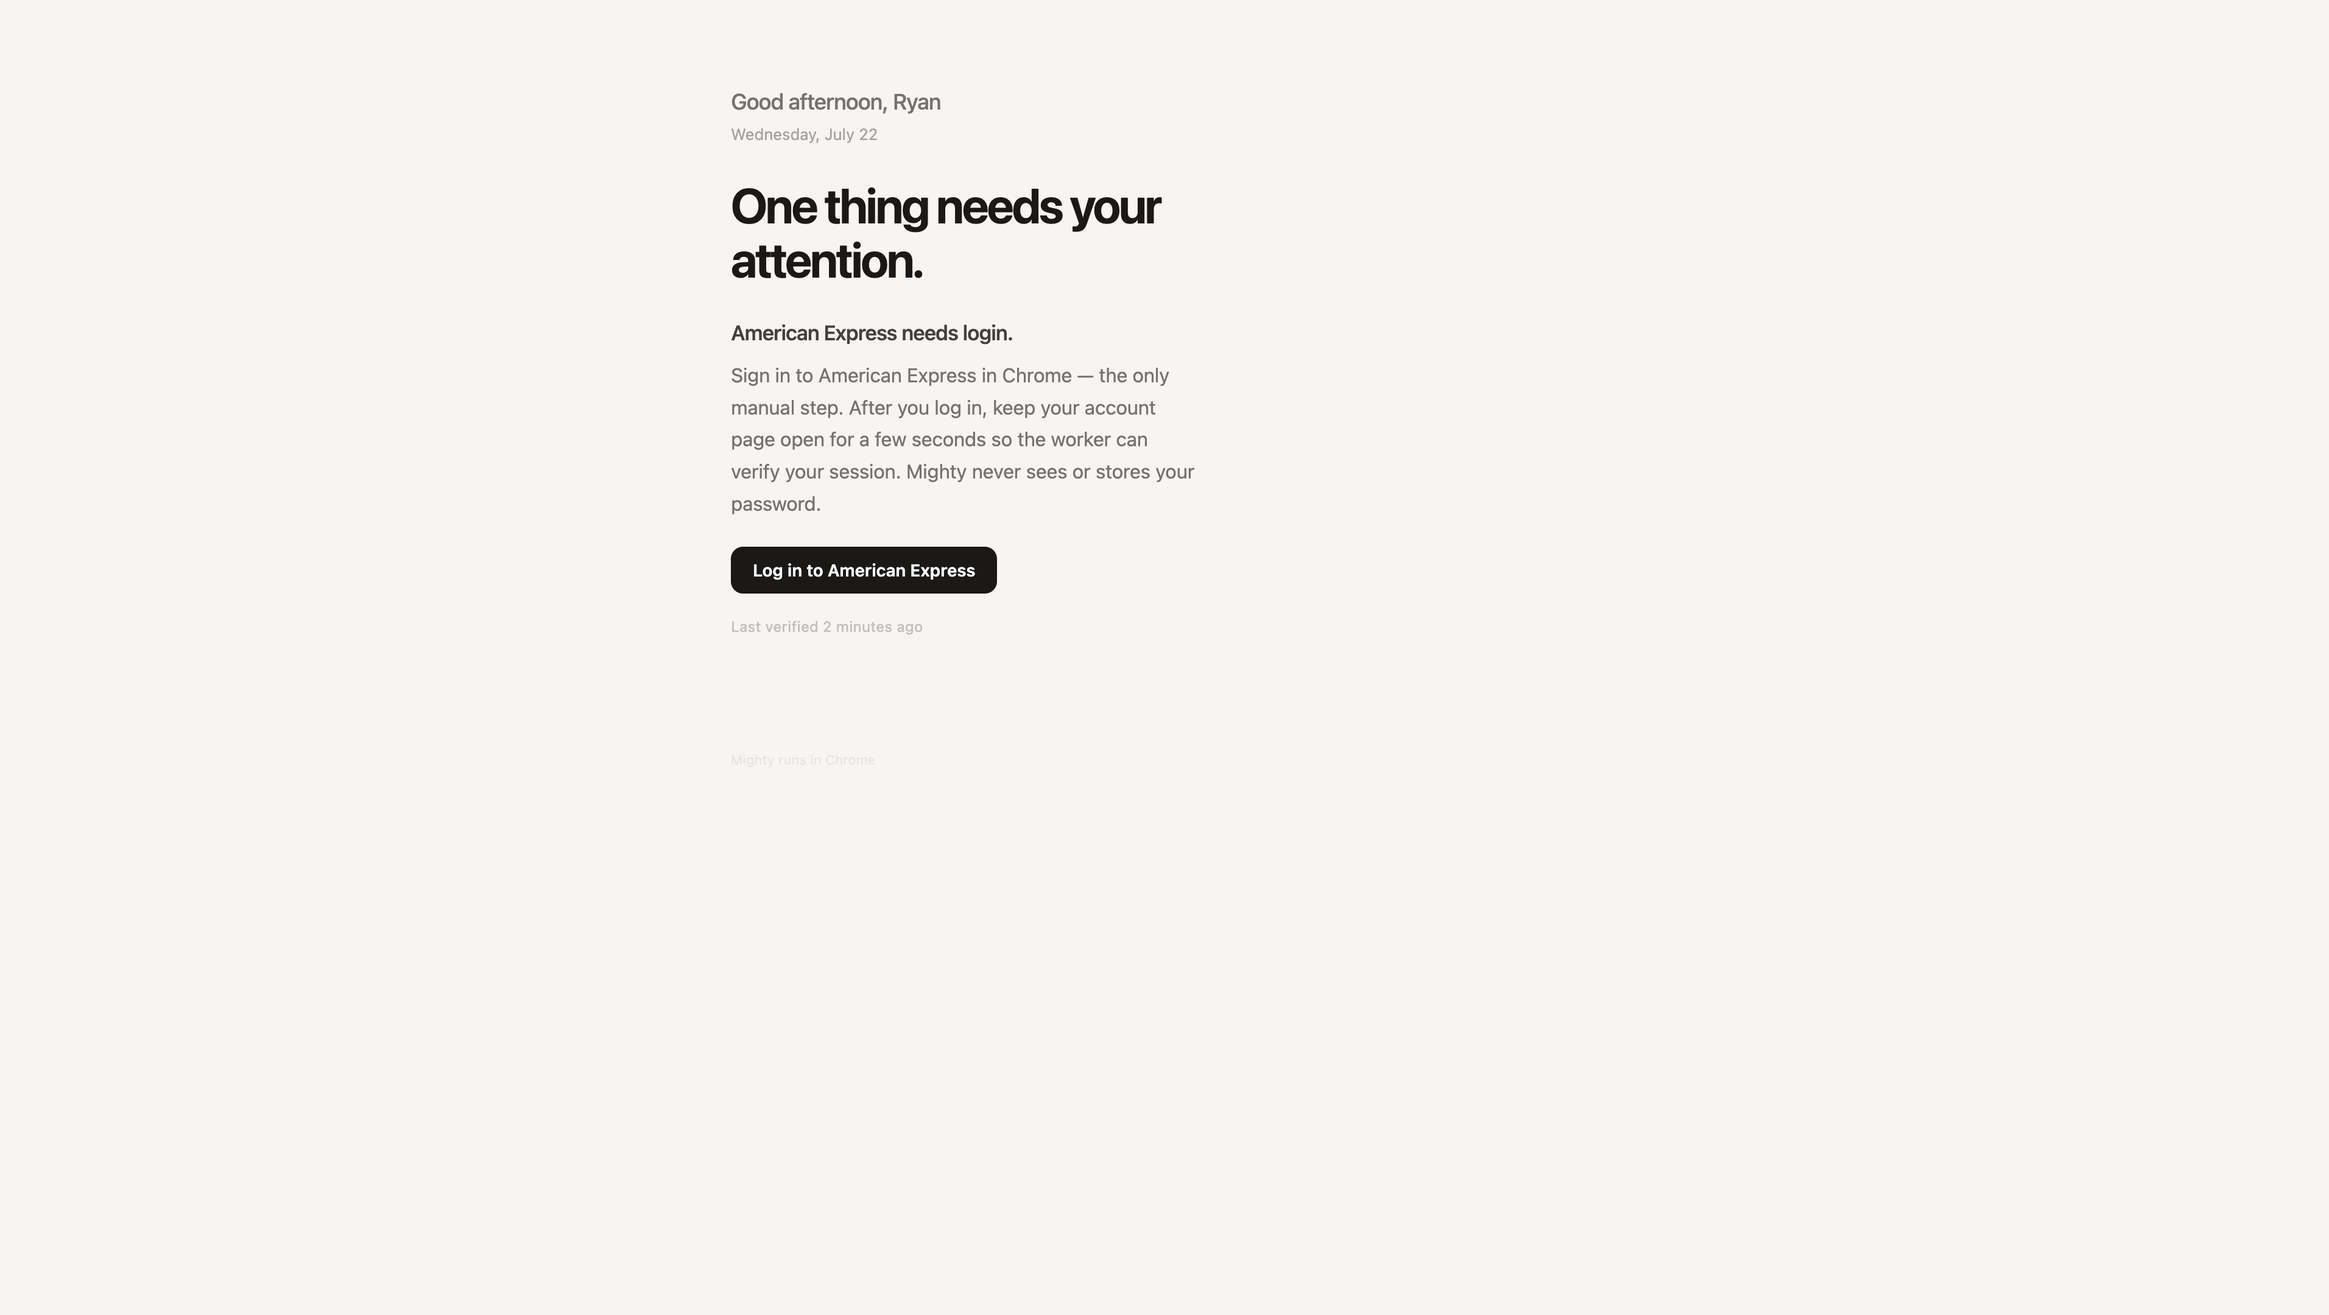
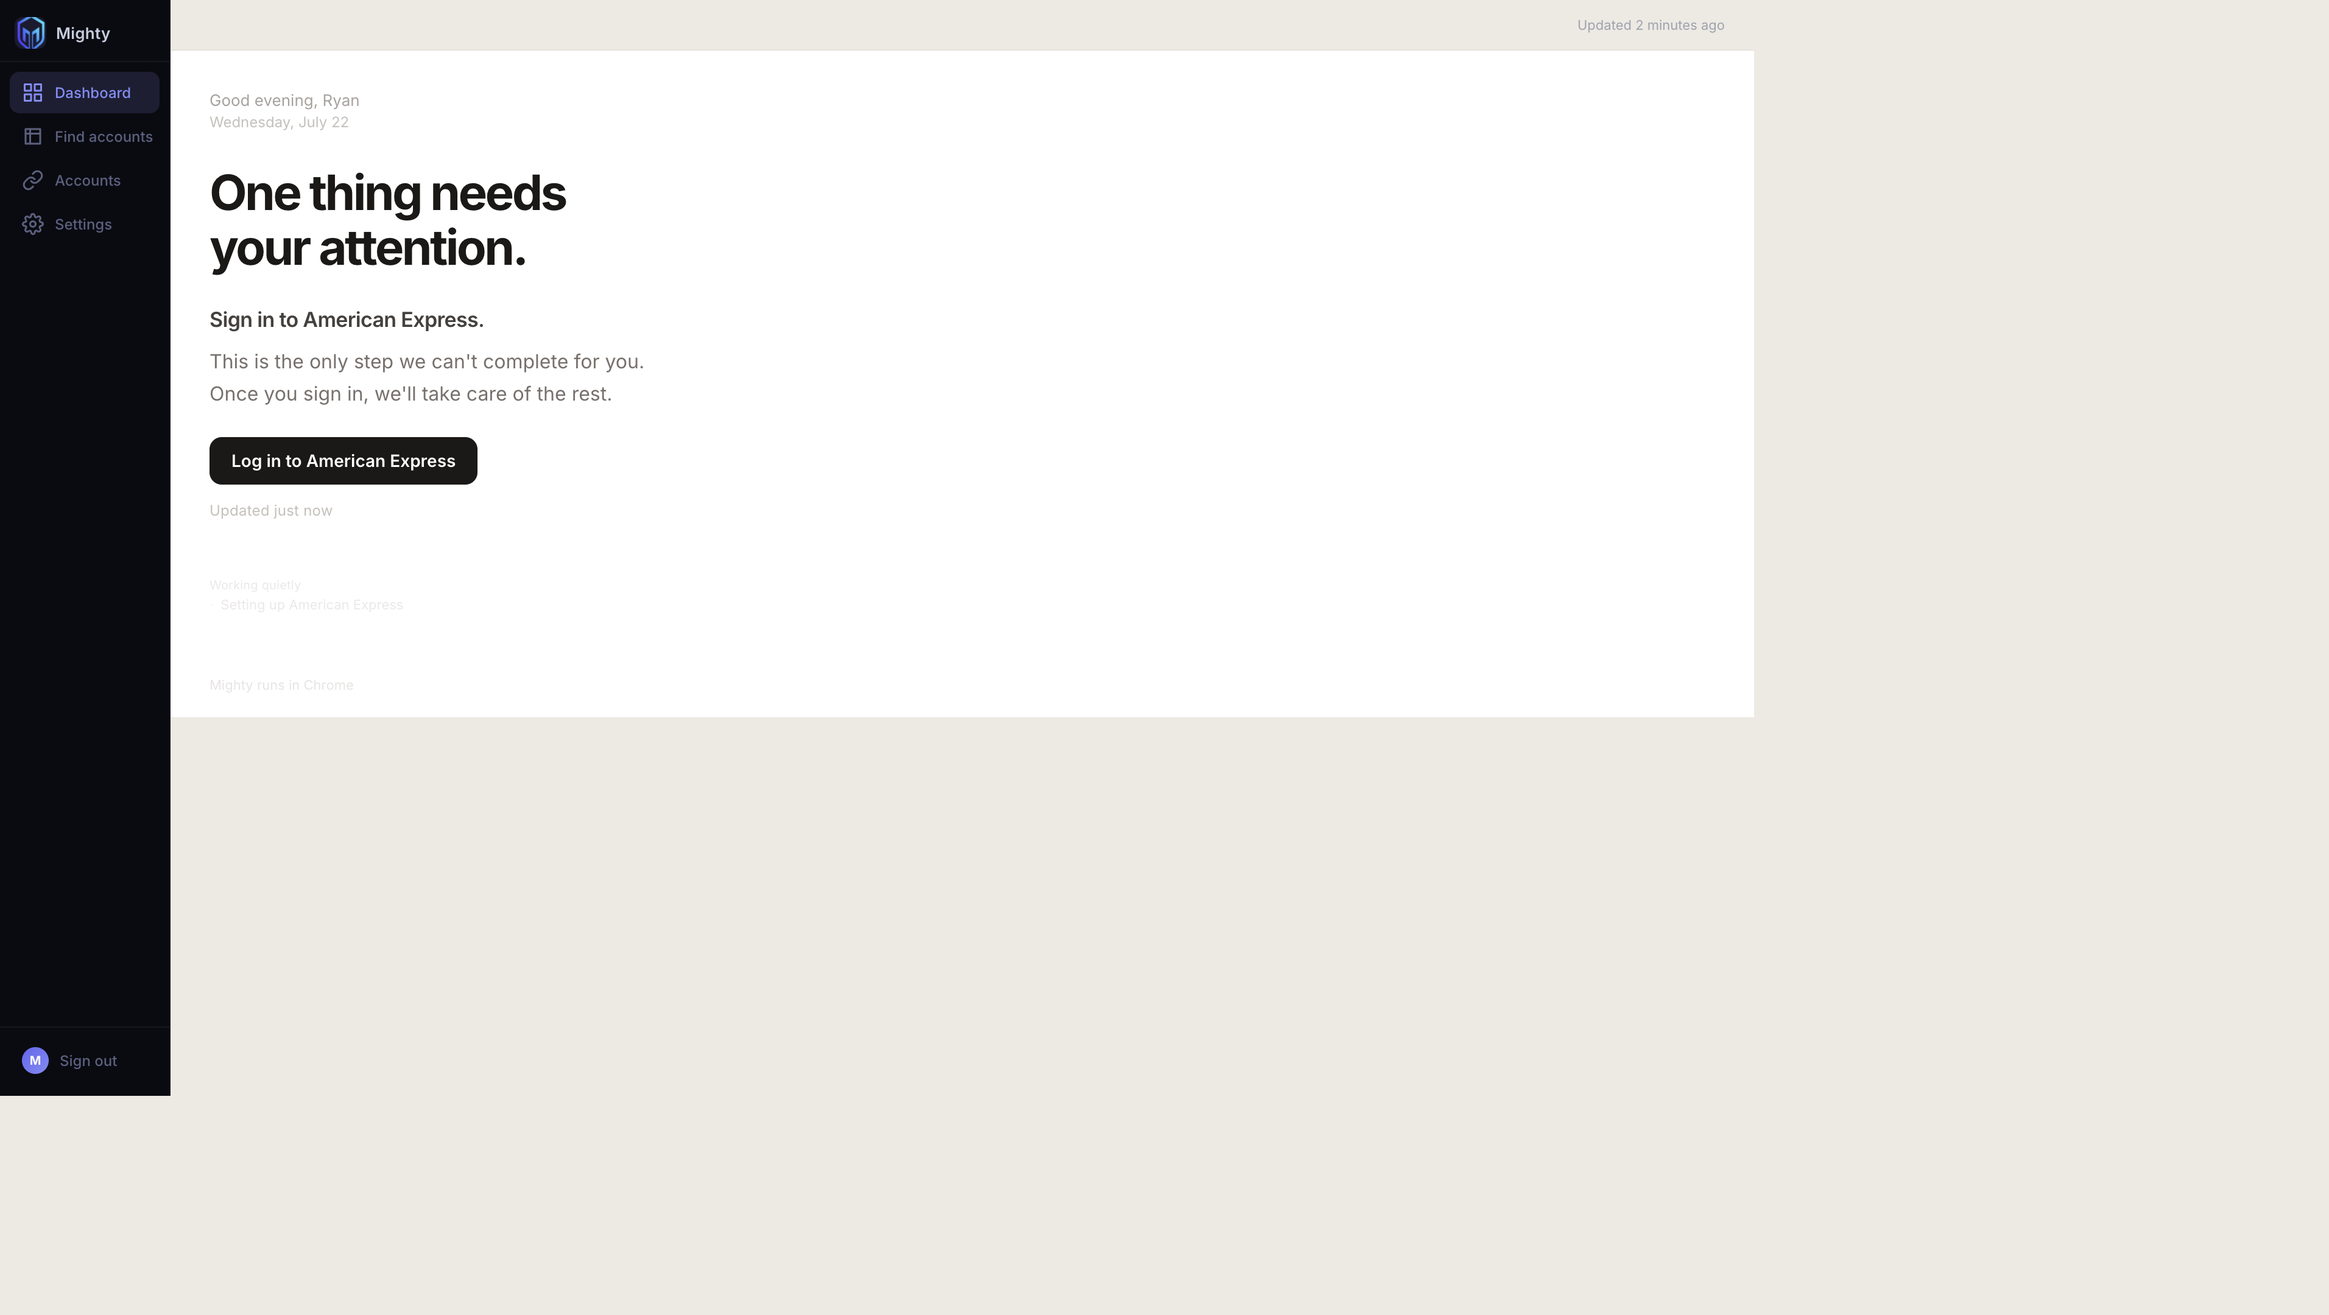
Home: Final V1B polish for greeting, freshness, and story copy
Quieten the greeting and ops whisper, keep subtle freshness under the story, and rewrite attention/opportunity copy for delegation and concrete benefit value.

Changed region(s): [[0.0, 0.0, 0.249, 0.8375], [0.3112, 0.2481, 0.4979, 0.4963], [0.3112, 0.062, 0.4979, 0.2171]]

diff --git a/app.py b/app.py
@@ -2137,8 +2137,12 @@ def _freshness_label(synced_at: str | None, sync_status: str = "ok") -> tuple:
         return ("No data", "#9ca3af", "—")
     try:
         import datetime as _dt
-        age_h = (_dt.datetime.utcnow() - _dt.datetime.fromisoformat(
-            synced_at.rstrip("Z"))).total_seconds() / 3600
+        parsed = _dt.datetime.fromisoformat(synced_at.rstrip("Z"))
+        if parsed.tzinfo is not None:
+            now = _dt.datetime.now(_dt.timezone.utc)
+            age_h = (now - parsed.astimezone(_dt.timezone.utc)).total_seconds() / 3600
+        else:
+            age_h = (_dt.datetime.utcnow() - parsed).total_seconds() / 3600
         if age_h < 1:
             return ("Just now", "#22c55e", "✓")
         elif age_h < 2:
@@ -6492,9 +6496,9 @@ DASHBOARD_HTML = """<!DOCTYPE html>
 /* Home V1B — status-first executive briefing */
 .home-briefing .home-stack{display:flex;flex-direction:column;gap:0;max-width:480px}
 .home-briefing .home-header{margin:0 0 8px}
-.home-briefing .home-greeting{margin:0;font-size:18px;font-weight:500;letter-spacing:-0.02em;line-height:1.3;color:#78716c}
-.home-briefing .home-meta{margin-top:4px}
-.home-briefing .home-meta .dash-brief-today-date{font-size:13px;color:#a8a29e}
+.home-briefing .home-greeting{margin:0;font-size:13px;font-weight:400;letter-spacing:0;line-height:1.35;color:#a8a29e}
+.home-briefing .home-meta{margin-top:2px}
+.home-briefing .home-meta .dash-brief-today-date{font-size:12px;color:#c4c0bb}
 .home-briefing .home-answer{margin:28px 0 0;font-size:40px;font-weight:650;color:#1c1917;letter-spacing:-0.045em;line-height:1.12;max-width:14ch}
 .home-briefing .home-primary{margin:18px 0 48px}
 .home-card{display:block}
@@ -6509,7 +6513,7 @@ DASHBOARD_HTML = """<!DOCTYPE html>
 .home-card-cta--disabled{display:inline-flex;align-items:center;justify-content:center;padding:11px 18px;font-size:14px;font-weight:600;color:#a8a29e;background:#f5f5f4;border-radius:10px}
 .home-card-secondary-link,.home-card-cta--text{font-size:13px;font-weight:500;color:#a8a29e;text-decoration:none}
 .home-card-secondary-link:hover,.home-card-cta--text:hover{color:#78716c;text-decoration:none}
-.home-freshness{margin:20px 0 0;font-size:12px;font-weight:450;color:#c4c0bb;letter-spacing:0.01em}
+.home-freshness{margin:14px 0 0;font-size:12px;font-weight:400;color:#c4c0bb;letter-spacing:0.01em}
 .home-section-label{margin:0 0 12px;font-size:11px;font-weight:600;color:#d6d3d1;text-transform:uppercase;letter-spacing:0.07em}
 .home-wins{margin:0 0 40px;padding-top:28px;border-top:0.5px solid rgba(0,0,0,0.05)}
 .home-wins-list{list-style:none;margin:0;padding:0;display:flex;flex-direction:column;gap:10px}
@@ -6517,18 +6521,18 @@ DASHBOARD_HTML = """<!DOCTYPE html>
 .home-win::before{content:"·";margin-right:10px;color:#d6d3d1}
 .home-win-link{color:inherit;text-decoration:none}
 .home-win-link:hover{color:#78716c;text-decoration:underline}
-.home-ops{margin:0 0 4px;opacity:0.72}
-.home-ops-label{margin:0 0 6px;font-size:11px;font-weight:500;color:#d6d3d1;letter-spacing:0.02em;text-transform:none}
-.home-ops-list{list-style:none;margin:0;padding:0;display:flex;flex-direction:column;gap:4px}
-.home-ops-item{font-size:12px;color:#d6d3d1;line-height:1.4}
-.home-ops-item::before{content:"•";margin-right:8px;color:#e7e5e4}
+.home-ops{margin:0 0 4px;opacity:0.5}
+.home-ops-label{margin:0 0 3px;font-size:10px;font-weight:400;color:#d6d3d1;letter-spacing:0.01em;text-transform:none}
+.home-ops-list{list-style:none;margin:0;padding:0;display:flex;flex-direction:column;gap:2px}
+.home-ops-item{font-size:11px;color:#d6d3d1;line-height:1.35}
+.home-ops-item::before{content:"·";margin-right:6px;color:#e7e5e4}
 .home-ops-note{color:#d6d3d1;text-decoration:none}
 a.home-ops-note:hover{color:#a8a29e;text-decoration:underline}
 .home-footer{margin-top:48px;padding-top:0;border-top:none;font-size:11px;color:#e7e5e4}
 .home-truth-debug{margin-top:36px;padding-top:16px;border-top:0.5px solid rgba(0,0,0,0.06)}
 .home-truth-debug summary{cursor:pointer;font-size:13px;font-weight:600;color:#a8a29e}
 @media(max-width:640px){
-.home-briefing .home-greeting{font-size:16px}
+.home-briefing .home-greeting{font-size:12px}
 .home-briefing .home-answer{font-size:32px;margin-top:22px}
 .home-card-title{font-size:16px}
 }

diff --git a/mighty/user_copy.py b/mighty/user_copy.py
@@ -586,11 +586,12 @@ HOME_PRIORITY_RECOMMENDATION = "1 thing worth your attention."
 # V1B briefing — answer "Am I good?"
 HOME_BRIEFING_ANSWER_GOOD = "You're good."
 HOME_BRIEFING_ANSWER_ATTENTION = "One thing needs your attention."
-HOME_BRIEFING_ANSWER_OPPORTUNITY = "Something is worth your attention."
+HOME_BRIEFING_ANSWER_OPPORTUNITY = "There's value waiting for you."
 HOME_BRIEFING_ALL_CLEAR_TITLE = "You're good."
 HOME_RECENT_WINS_LABEL = "Recent wins"
 HOME_OPS_LABEL = "Working quietly"
 HOME_FRESHNESS_PREFIX = "Last verified "
+HOME_FRESHNESS_UPDATED_PREFIX = "Updated "
 HOME_ACCOUNTS_SOFT_LINK = "Accounts"
 
 HOME_FOOTER_WORKER = "Mighty runs in Chrome"
@@ -641,15 +642,15 @@ def home_waiting_headline(count: int, provider_name: str | None = None) -> str:
 
 def home_login_headline(provider_name: str, *, plural: bool = False, count: int = 1) -> str:
     if plural or count > 1:
-        return f"{count} accounts need login."
-    return f"{provider_name} needs login."
+        return f"{count} accounts need a sign-in."
+    return f"Sign in to {provider_name}."
 
 
 def home_login_body(provider_name: str) -> str:
+    del provider_name  # Provider is named in the title / CTA.
     return (
-        f"Sign in to {provider_name} in Chrome — the only manual step. "
-        "After you log in, keep your account page open for a few seconds so the worker "
-        "can verify your session. Mighty never sees or stores your password."
+        "This is the only step we can't complete for you. "
+        "Once you sign in, we'll take care of the rest."
     )
 
 
@@ -714,10 +715,52 @@ def home_ops_needs_login(count: int) -> str:
 
 
 def home_freshness_label(when: str) -> str:
+    """Subtle story freshness — e.g. 'Updated just now' / 'Last verified 2 minutes ago'."""
     text = (when or "").strip()
     if not text:
         return ""
+    lowered = text.lower()
+    if lowered.startswith("updated ") or lowered.startswith("last verified "):
+        return text
+    if lowered in {"just now", "a moment ago", "moments ago"}:
+        return f"{HOME_FRESHNESS_UPDATED_PREFIX}{lowered}"
     return f"{HOME_FRESHNESS_PREFIX}{text}"
+
+
+def home_opportunity_headline(provider_name: str, topic: str | None = None) -> str:
+    if topic:
+        return f"{topic[0].upper() + topic[1:]} available on {provider_name}"
+    return f"Value waiting on {provider_name}"
+
+
+def home_opportunity_body(provider_name: str, topic: str | None = None) -> str:
+    if topic:
+        return (
+            f"Claiming this {topic} on {provider_name} could put real value "
+            "back in your pocket. Open it when you're ready — we'll keep handling the rest."
+        )
+    return (
+        f"We found something on {provider_name} that could put money or perks "
+        "back in your pocket. Review it when you're ready — we'll keep handling the rest."
+    )
+
+
+def home_value_at_risk_headline(provider_name: str, topic: str | None = None) -> str:
+    if topic:
+        return f"{topic[0].upper() + topic[1:]} on {provider_name} won't wait"
+    return f"Time-sensitive value on {provider_name}"
+
+
+def home_value_at_risk_body(provider_name: str, topic: str | None = None) -> str:
+    if topic:
+        return (
+            f"This {topic} on {provider_name} may expire soon. "
+            "Review it now and we'll take care of the follow-through."
+        )
+    return (
+        f"There's value on {provider_name} that may expire soon. "
+        "Review it now and we'll take care of the follow-through."
+    )
 
 
 def home_attention_headline(attention_count: int) -> str:

diff --git a/mighty/attention_view.py b/mighty/attention_view.py
@@ -320,6 +320,18 @@ def _provider_name(provider: str | None, names: Mapping[str, str]) -> str:
     return names.get(key) or provider.replace("_", " ").title()
 
 
+def _benefit_topic(item: AttentionItem) -> str | None:
+    """Humanize benefit fingerprint field_key for concrete opportunity copy."""
+    fingerprint = (item.fingerprint or "").strip()
+    if not fingerprint.startswith("benefit:"):
+        return None
+    parts = fingerprint.split(":", 2)
+    if len(parts) < 3:
+        return None
+    topic = parts[2].replace("_", " ").strip()
+    return topic or None
+
+
 def _copy_for(item: AttentionItem, provider_name: str) -> tuple[str, str, str | None]:
     cls = item.attention_class
     reason = item.reason.code
@@ -328,18 +340,21 @@ def _copy_for(item: AttentionItem, provider_name: str) -> tuple[str, str, str | 
         title = user_copy.home_login_headline(provider_name)
         if reason == "mfa":
             body = (
-                f"Complete the sign-in challenge for {provider_name} in Chrome. "
-                "Mighty never sees or stores your password."
+                f"This is the only step we can't complete for you. "
+                f"Finish the {provider_name} sign-in challenge, and we'll take care of the rest."
             )
             cta = f"Continue {provider_name} login"
         elif reason == "captcha":
             body = (
-                f"Complete the security check for {provider_name} in Chrome, "
-                "then keep the account page open briefly."
+                f"This is the only step we can't complete for you. "
+                f"Complete the {provider_name} security check, and we'll take care of the rest."
             )
             cta = f"Open {provider_name}"
         elif reason == "consent":
-            body = f"Approve access for {provider_name} so Mighty can continue."
+            body = (
+                f"This is the only step we can't complete for you. "
+                f"Approve access for {provider_name}, and we'll take care of the rest."
+            )
             cta = f"Open {provider_name}"
         else:
             body = user_copy.home_login_body(provider_name)
@@ -407,17 +422,19 @@ def _copy_for(item: AttentionItem, provider_name: str) -> tuple[str, str, str | 
         )
 
     if cls == AttentionClass.VALUE_AT_RISK:
+        topic = _benefit_topic(item)
         return (
-            f"Time-sensitive value on {provider_name}",
-            f"Review this {provider_name} item before the value is lost.",
-            "Review",
+            user_copy.home_value_at_risk_headline(provider_name, topic),
+            user_copy.home_value_at_risk_body(provider_name, topic),
+            "Review benefit",
         )
 
     if cls == AttentionClass.OPPORTUNITY:
+        topic = _benefit_topic(item)
         return (
-            f"Something worth a look on {provider_name}",
-            "Optional — only if you want to act on it.",
-            "View",
+            user_copy.home_opportunity_headline(provider_name, topic),
+            user_copy.home_opportunity_body(provider_name, topic),
+            "See the benefit",
         )
 
     if cls == AttentionClass.DATA_GAP:

diff --git a/tests/test_attention_view.py b/tests/test_attention_view.py
@@ -173,8 +173,28 @@ class TestCopyAndCta:
     def test_login_copy(self):
         title, body, cta = resolve_attention_copy(_item())
         assert "American Express" in title
-        assert "Chrome" in body
+        assert "Sign in to American Express." in title
+        assert "only step we can't complete for you" in body
+        assert "we'll take care of the rest" in body
         assert cta == "Log in to American Express"
+
+    def test_opportunity_copy_is_benefit_concrete(self):
+        item = _item(
+            attention_id="att_user1_opportunity_amex_dining_credit",
+            attention_class=AttentionClass.OPPORTUNITY,
+            urgency=AttentionUrgency.OPPORTUNITY,
+            fingerprint="benefit:amex:dining_credit",
+            reason=AttentionReason(code="opportunity"),
+            cta_key=AttentionCtaKey.OPEN_ACCOUNT_DETAIL,
+            source_kind=AttentionSourceKind.BENEFIT,
+            source_ref="action_item:1",
+            interruption_expected=False,
+        )
+        title, body, cta = resolve_attention_copy(item)
+        assert "Dining credit available on American Express" in title
+        assert "Something worth a look" not in title
+        assert "put real value" in body
+        assert cta == "See the benefit"
 
     def test_cta_urls(self):
         assert resolve_attention_cta_url(

diff --git a/mighty/home_ui.py b/mighty/home_ui.py
@@ -761,16 +761,16 @@ def _render_ops_strip(
 def _render_freshness(last_checked: str, *, escape: Callable[[Any], str]) -> str:
     if not last_checked:
         return ""
-    display = (
-        _ts_html(last_checked)
-        if "T" in str(last_checked)
-        else escape(str(last_checked))
-    )
-    label = escape(user_copy.HOME_FRESHNESS_PREFIX)
+    raw = str(last_checked)
+    if "T" in raw:
+        # Absolute timestamps keep the verified prefix + local <time>.
+        line = f"{escape(user_copy.HOME_FRESHNESS_PREFIX)}{_ts_html(raw)}"
+    else:
+        line = escape(user_copy.home_freshness_label(raw))
     return (
         f'<p class="home-freshness" id="dash-last-checked" '
         f'data-last-checked="{escape(last_checked)}">'
-        f"{label}{display}"
+        f"{line}"
         f"</p>"
     )
 

diff --git a/tests/test_home_ui.py b/tests/test_home_ui.py
@@ -186,6 +186,9 @@ class TestHomeBriefingUi:
         assert "One thing needs your attention." in rendered
         assert attention.primary is not None
         assert attention.primary.title in rendered
+        assert "only step we can&#x27;t complete for you" in rendered or (
+            "only step we can't complete for you" in rendered
+        )
         assert "https://amex.test/login" in rendered
         assert "home-card-cta--primary" in rendered
 

diff --git a/docs/HOME_V1.md b/docs/HOME_V1.md
@@ -79,6 +79,6 @@ Opportunities appear on Home **only** when Attention has already selected them a
 
 ### AD-HOME-5: V1B status-first hierarchy (UX only)
 
-- **Decision:** Dominant status line (“You’re good.” / needs attention / worth attention); outcome copy without account counts; no primary CTA when all clear; subtle freshness; whisper-weight ops.  
+- **Decision:** Dominant status line (“You’re good.” / needs attention / value waiting); quiet greeting; outcome copy without account counts; no primary CTA when all clear; subtle freshness beneath the story; metadata-weight ops; attention copy emphasizes delegation; opportunity copy is benefit-concrete.  
 - **Why:** Five-second “Am I good?” read; calm confidence over dashboard density.  
 - **Impact:** No ownership or ranking changes — presentation and copy only.

diff --git a/docs/pr-screenshots/home-v1b/README.md b/docs/pr-screenshots/home-v1b/README.md
@@ -1,0 +1,9 @@
+# Home V1B screenshots
+
+Logged-in Home captures after the final V1B polish pass. Review these files locally or from the repo — they are not embedded in chat.
+
+| File | State | What it shows |
+|------|--------|----------------|
+| `all-clear.png` | All clear | Quiet greeting; dominant **You’re good.**; outcome body; subtle freshness under the story (`Updated just now`); metadata-weight “Working quietly”. |
+| `attention.png` | Needs attention | Dominant **One thing needs your attention.** Featured Amex sign-in with delegation copy (“only step we can’t complete for you…”) and primary CTA. |
+| `opportunity.png` | Opportunity | Dominant **There’s value waiting for you.** Concrete benefit story (dining credit on Amex) with value-oriented body — not vague “worth a look” copy. |
